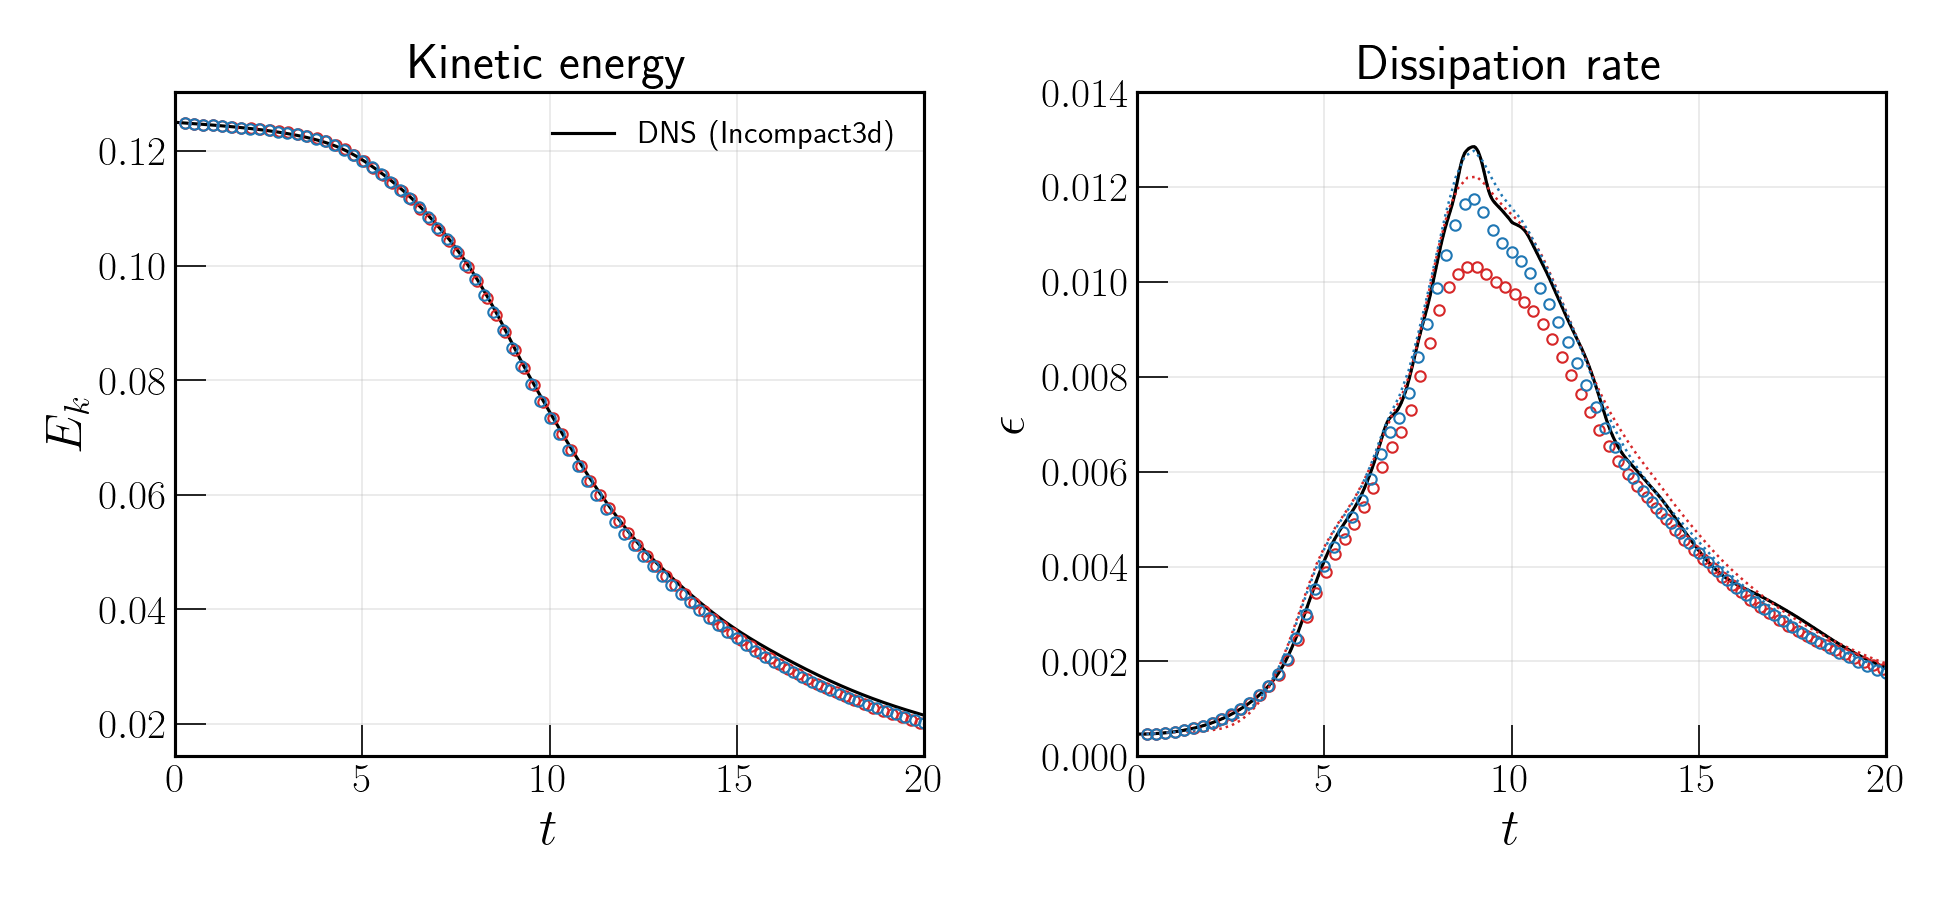
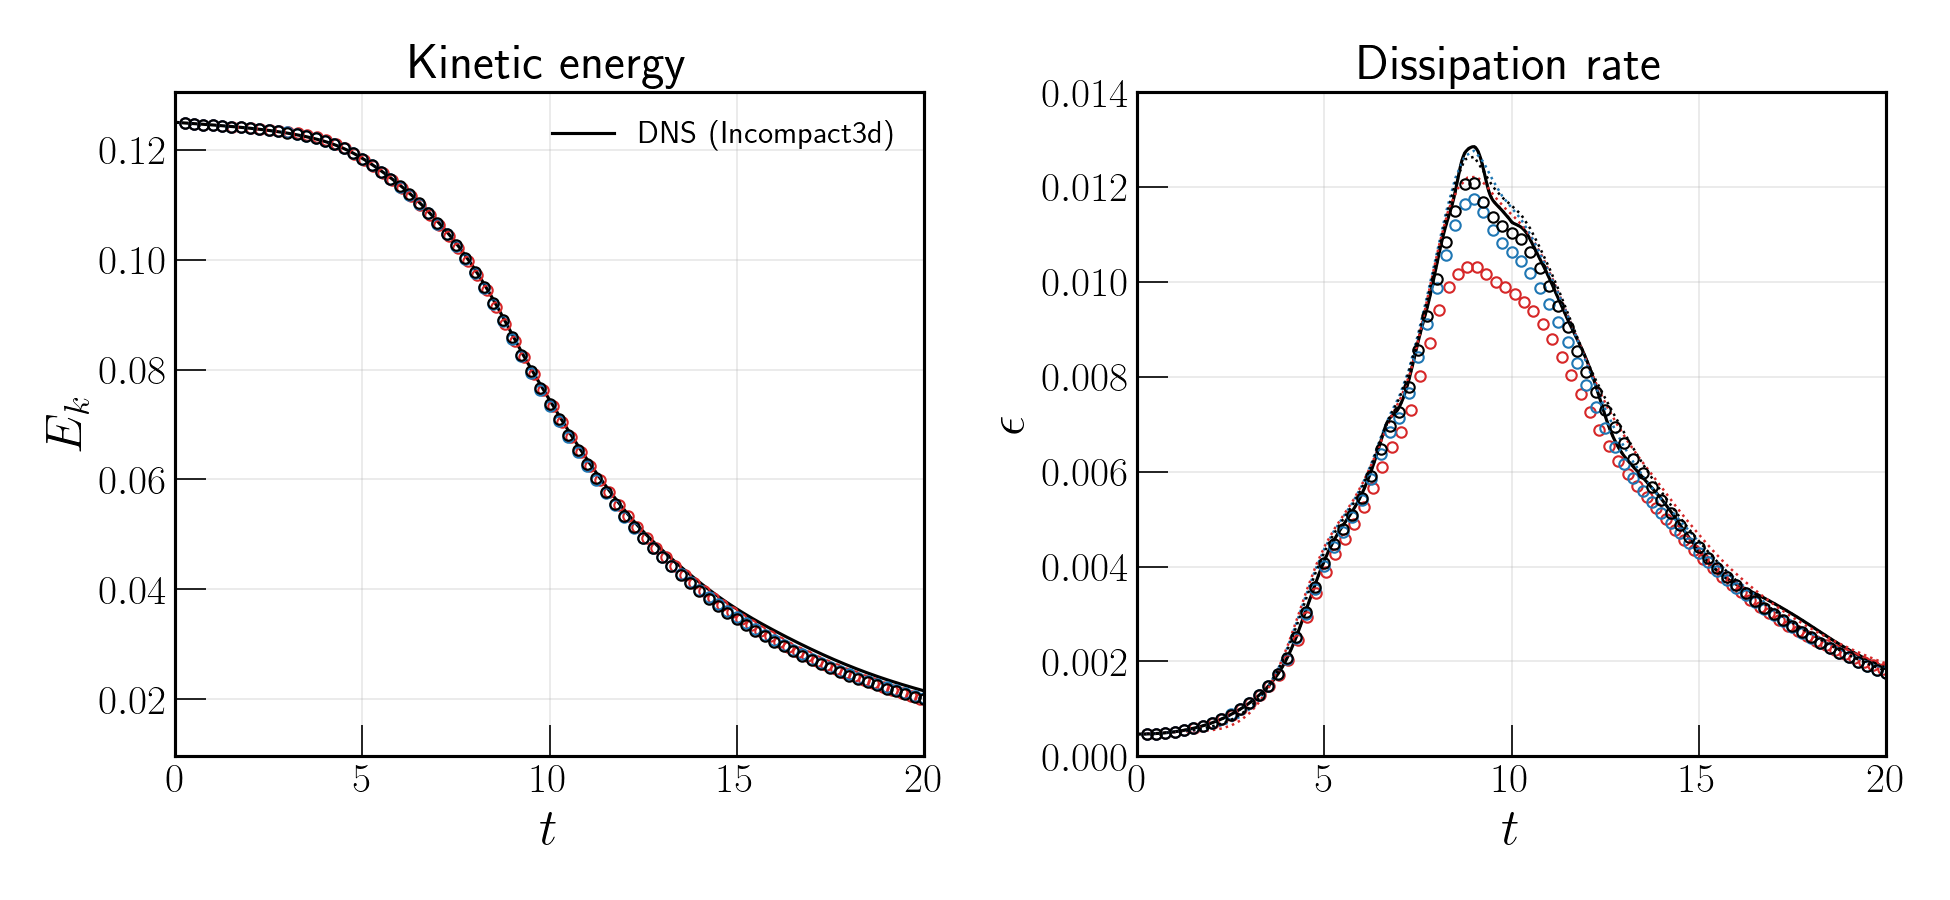
docs: Update TGV validation docs and results

diff --git a/docs/Numerics.md b/docs/Numerics.md
@@ -151,8 +151,8 @@ of the time evolution of the kinetic energy and the kinetic energy dissipation r
 against reference direct numerical simulations (DNS) using a similar numerical
 methodology. The data markers correspond to the various grid resolutions tested using
 `dopamine-fdm`: red = $N_g = 256^3$, blue = $N_g = 384^3$, black = $N_g = 512^3$. Using
-`advection_scheme = 0` (skew-symmetric, the default), the results compare well with the
-benchmark data.
+`advection_scheme = 1` (pure divergence-form central), the results compare well with the
+benchmark data. The dissipation rate can be calculated using two methods, (a) explicit gradient based calculation [empty circles], (b) Time rate of change of the Kinetic Energy i.e., $\epsilon = -dk/dt$ [dashed line].  
 
 ![Solver Validation & Grid Sensitivity Test](TGV_Validation.png)
 
